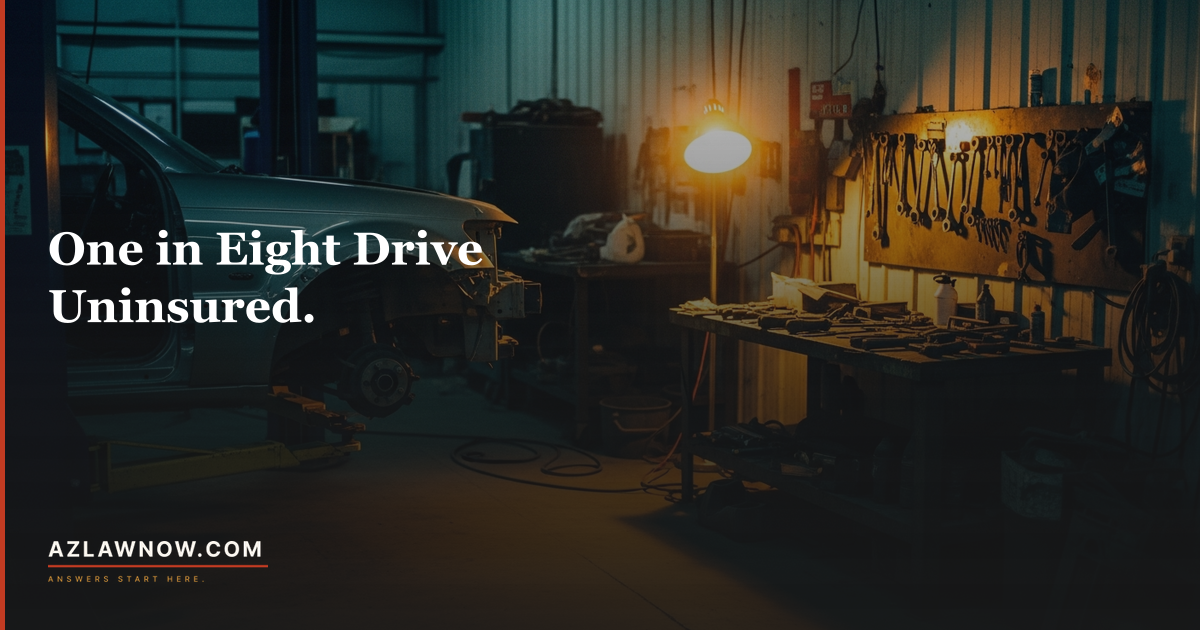
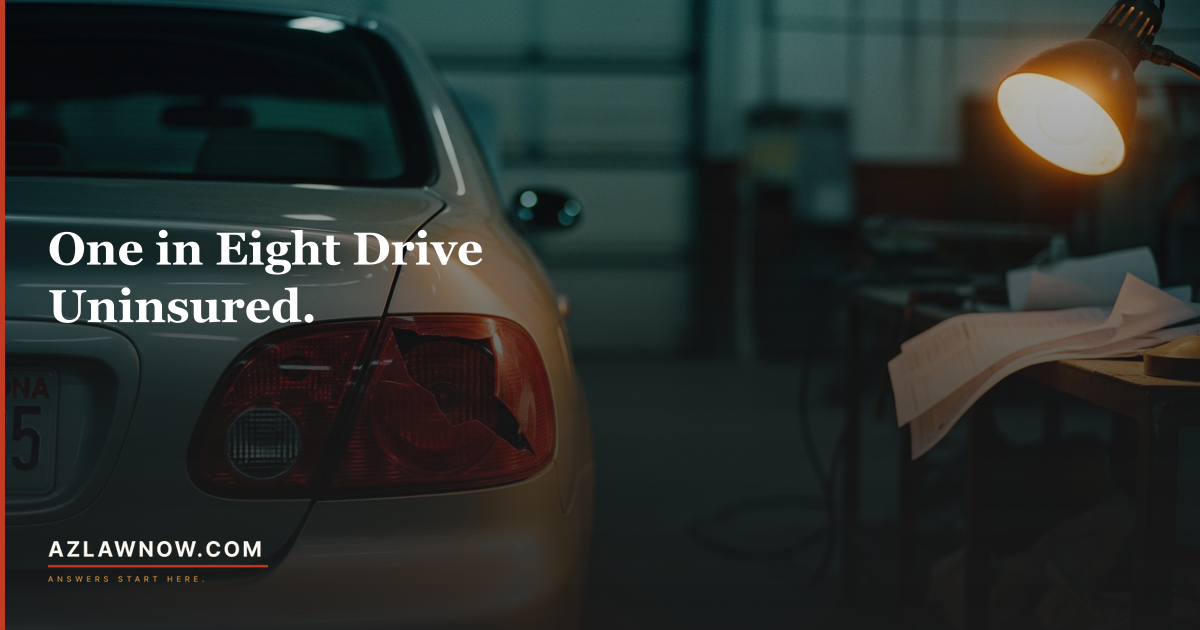
Regenerate the 11 OG cards with sharper article-specific headlines and scenes. Each headline now carries a real data point or concrete detail from the story (19 Coolidge Families, 21300 N John Wayne Pkwy, 25,000 Vehicles Per Day, 9% of Crash Survivors, The 90% Carry This, Slip/Object/Allergy/Poisoni

diff --git a/scripts/og-generate-new.ts b/scripts/og-generate-new.ts
@@ -28,58 +28,58 @@ type Spec = { slug: string; headline: string; prompt: string };
 const specs: Spec[] = [
   {
     slug: 'coolidge-daycare-19-families-lawsuit',
-    headline: '19 Families. One Daycare.',
-    prompt: `Empty daycare playroom at dusk, scattered children's plastic toys on carpet, afternoon light filtering through closed blinds, small chairs arranged in a circle, warm lamp in corner, unsettling stillness. ${STYLE_SUFFIX}`,
+    headline: '19 Coolidge Families. Two Years of Complaints.',
+    prompt: `Quiet residential street in Coolidge Arizona at dusk, modest single-story home with a driveway, small front yard, front porch with a single forgotten child's stuffed animal sitting on the step, desert landscaping, warm amber light from a single porch lamp, atmosphere of something gone wrong behind a normal door. ${STYLE_SUFFIX}`,
   },
   {
     slug: 'maricopa-office-opening',
-    headline: 'We Opened in Maricopa.',
-    prompt: `Modern southwestern office reception at golden hour, warm wood reception desk, glass entry doors, Arizona desert visible through large window, leather chairs, brass fixtures, welcoming professional atmosphere. ${STYLE_SUFFIX}`,
+    headline: '21300 N John Wayne Pkwy. Now Open.',
+    prompt: `Exterior of a modern Southwest professional office building at golden hour, Maricopa Professional Village architectural vibe, saguaro cactus landscaping, warm parking lot lights beginning to glow, clean glass entry doors, desert mountains in the distance, open for business feel. ${STYLE_SUFFIX}`,
   },
   {
     slug: 'paws-claws-maricopa-sponsorship',
-    headline: 'Community Comes First.',
-    prompt: `Community park at dusk, wooden pavilion, string lights overhead, empty picnic tables, desert landscaping, festival tents in distance, saguaro cactus silhouette, warm evening glow. ${STYLE_SUFFIX}`,
+    headline: 'Pacana Park. Third Annual Paws & Claws.',
+    prompt: `Pacana Park in Maricopa Arizona at golden hour, empty festival pavilion setup with string lights strung overhead, rows of wooden picnic tables, event tents implied by silhouettes on the grass field, saguaro cactus on the horizon, warm evening community atmosphere. ${STYLE_SUFFIX}`,
   },
   {
     slug: 'watson-yuma-buckeye-intersection',
-    headline: "Buckeye's Busiest Crossing.",
-    prompt: `Busy Arizona commercial intersection at blue hour, traffic signal lights glowing amber, wide asphalt lanes, commercial retail signage in background, palm trees lining the road, heat shimmer, desert sky gradient. ${STYLE_SUFFIX}`,
+    headline: 'Watson & Yuma. The Pattern Is Structural.',
+    prompt: `Busy suburban Arizona intersection at blue hour, wide four-lane crossing, traffic signal glowing amber mid-phase, Buckeye commercial strip architecture in the background, retail storefront silhouettes, palm trees, heat-shimmer atmosphere, vehicles queued at the red light. ${STYLE_SUFFIX}`,
   },
   {
     slug: 'sr-347-i-10-interchange',
-    headline: "Maricopa's Daily Choke Point.",
-    prompt: `Highway interchange at dusk, merging lane markings converging, amber overhead highway lights, desert mountain silhouettes, commercial truck taillights in distance, slight atmospheric haze. ${STYLE_SUFFIX}`,
+    headline: '25,000 Vehicles Per Day. One Merge.',
+    prompt: `Arizona highway on-ramp merging into I-10 at dusk, bright amber overhead highway lights, converging lane lines funneling toward a narrow merge point, commercial truck taillights glowing red in the merge zone, desert mountain silhouettes, heavy rush-hour atmosphere, sky transitioning to blue hour. ${STYLE_SUFFIX}`,
   },
   {
     slug: 'first-week-maricopa-sr-347-dispatch',
-    headline: 'A Sobering Welcome.',
-    prompt: `Arizona SR-347 at sunset, two-lane desert highway stretching to the horizon, mountains in distance, empty road, amber sky, melancholy quiet, no vehicles. ${STYLE_SUFFIX}`,
+    headline: 'Four Days In. January 15. SR-347.',
+    prompt: `SR-347 desert highway at dusk with stopped traffic ahead, red brake lights glowing in a long line into the distance, emergency vehicle amber flashing lights reflecting off the asphalt, saguaro cactus silhouettes on both sides of the road, somber melancholy mood, Arizona mountain horizon. ${STYLE_SUFFIX}`,
   },
   {
     slug: 'arizona-uninsured-motorist-law',
     headline: 'One in Eight Drive Uninsured.',
-    prompt: `Arizona auto body shop interior at dusk, damaged front fender on a lift, scattered tools on workbench, warm work lamp casting amber light, industrial concrete floor, grease-darkened steel. ${STYLE_SUFFIX}`,
+    prompt: `Close-up of a damaged rear quarter panel of an Arizona-plated sedan inside a body shop bay, cracked tail light, amber work lamp casting light across the metal, loose insurance paperwork on a workbench in the soft background, industrial concrete floor, moody low lighting. ${STYLE_SUFFIX}`,
   },
   {
     slug: 'suing-a-restaurant-in-arizona',
-    headline: 'Four Ways a Restaurant Can Hurt You.',
-    prompt: `Empty restaurant dining room after closing, dim warm pendant lighting, tables set with folded napkins, dark hardwood floor reflecting amber light, elegant interior, wine bottles on shelf in background. ${STYLE_SUFFIX}`,
+    headline: 'Slip. Object. Allergy. Poisoning.',
+    prompt: `Restaurant kitchen at closing time, stainless steel prep counter with a single overhead service lamp casting warm light, wet tiled floor with a yellow wet-floor caution sign, pots hanging from a rack overhead, dark quiet atmosphere, a clipboard with an inspection form on the counter edge. ${STYLE_SUFFIX}`,
   },
   {
     slug: 'flashbacks-after-arizona-car-crash',
-    headline: "It's Not a Memory. It's a Symptom.",
-    prompt: `Bedroom at night with moonlight through venetian blinds casting striped shadows, empty unmade bed, alarm clock glowing amber on nightstand, water glass, introspective quiet atmosphere. ${STYLE_SUFFIX}`,
+    headline: '9% of Crash Survivors. One Symptom.',
+    prompt: `Dim car dashboard view at night from driver's perspective, amber instrument cluster glow, rain reflections on the windshield, distant oncoming headlights creating a bright bloom in the glass, tight composition focused on steering wheel and speedometer, sensory tension. ${STYLE_SUFFIX}`,
   },
   {
     slug: 'survivors-guilt-after-a-crash',
-    headline: 'The Weight of Having Lived.',
-    prompt: `Empty passenger car seat at dusk, unbuckled seatbelt hanging loose, dashboard dimly glowing amber, rearview mirror, windshield showing desert road disappearing into distance, quiet intimate stillness. ${STYLE_SUFFIX}`,
+    headline: 'The 90% Carry This.',
+    prompt: `Empty front passenger seat of a car at dusk, a folded jacket left behind on the seat, unbuckled seatbelt hanging loose, amber dashboard glow, quiet intimate composition, Arizona desert road softly visible through the windshield, heavy stillness. ${STYLE_SUFFIX}`,
   },
   {
     slug: 'psychological-recovery-after-arizona-crash',
     headline: "The Crash Didn't End at the Scene.",
-    prompt: `Therapy office at golden hour, warm upholstered armchair, tissue box on small side table, potted plant in corner, soft amber light through blinds, calm healing space, wooden floor, Southwestern art on wall. ${STYLE_SUFFIX}`,
+    prompt: `Therapist's office at golden hour, warm upholstered reading chair facing a window with soft blinds letting amber light through, small side table with a tissue box and a water glass, potted plant in the corner, Southwestern abstract art on the wall, atmosphere of a calm private recovery space. ${STYLE_SUFFIX}`,
   },
 ];
 
